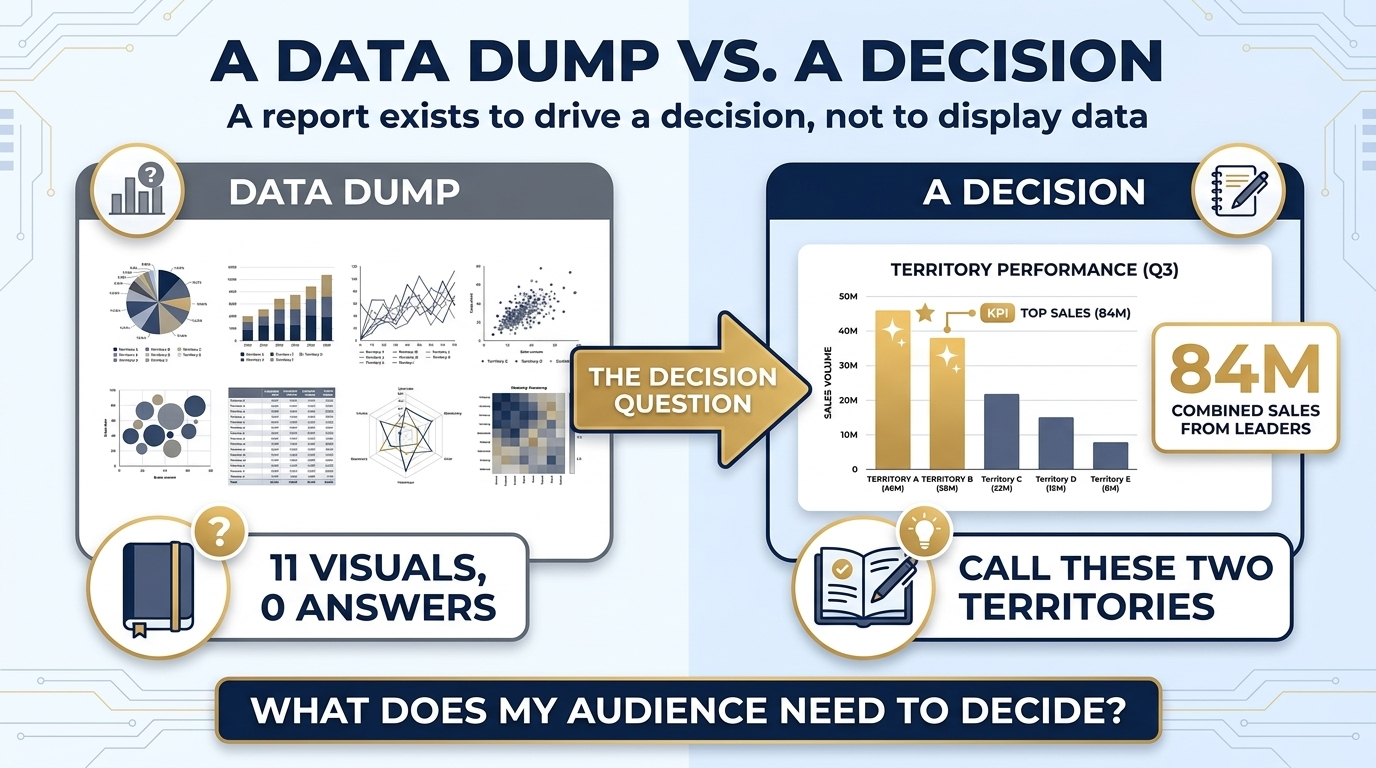
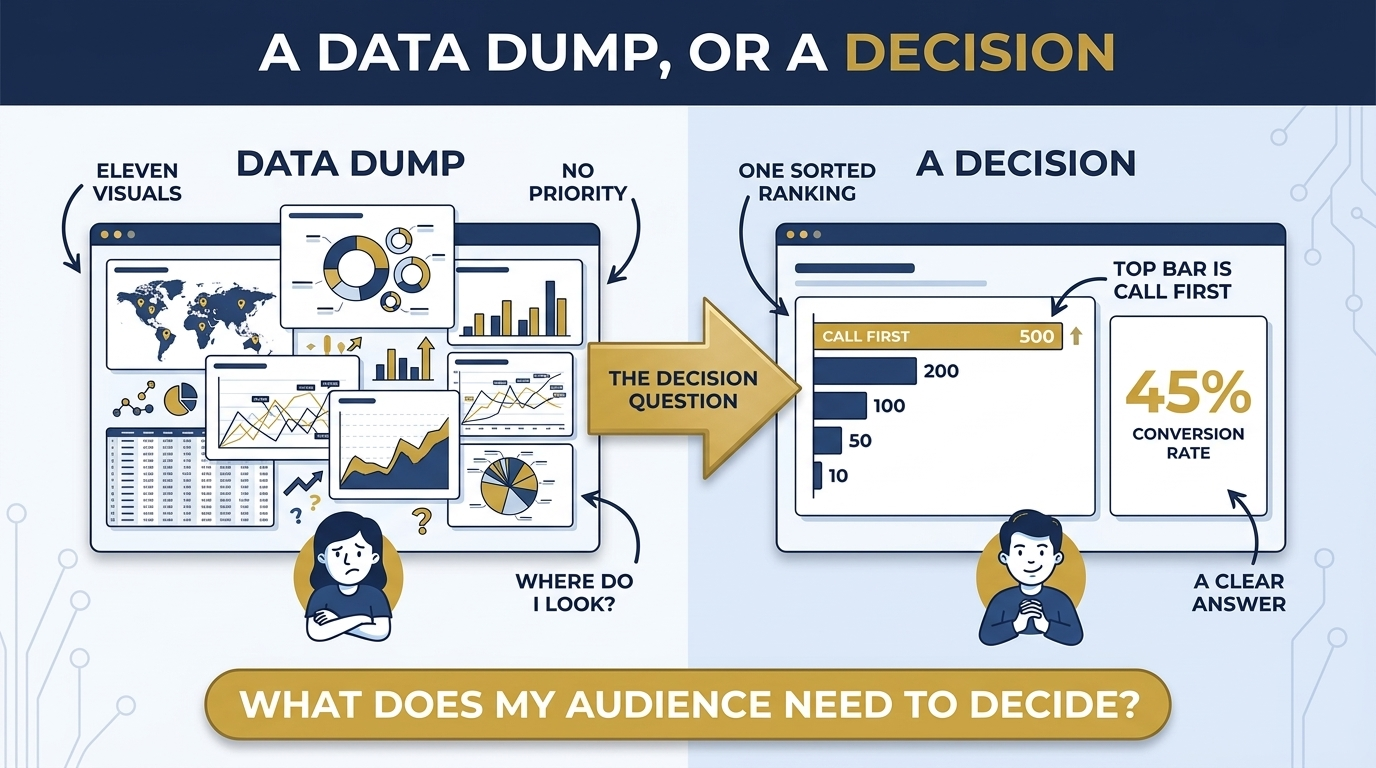
Restyle Chapter 1-6 images as ai4educators-style master infographics
Rebuild the chapter openers and Chapter 1's inner figures in the dense,
richly illustrated master-infographic style modeled on ai4educators.net:
images now depict each chapter's system with real objects, mini-diagrams,
and connecting arrows rather than labelling topics in sparse shapes.

- Ch1-6 openers regenerated, each with a distinct composition (layered
  stack, categorized gallery, before/after, hub-and-spoke, card grid,
  hub-with-side-panels) so no two repeat.
- Chapter 1 inner figures (1.2-1.4) upgraded to the same rich style.
- Chapter 1 and 2 photo-real openers (crossroads, visual-toolkit-wall)
  replaced; new openers use the at-a-glance slug.
- Figure HTML-comment prompt blocks and alt text updated to match.
- All chapters build clean with no MyST warnings.

diff --git a/chapters/ch01-from-model-to-message.md b/chapters/ch01-from-model-to-message.md
@@ -4,25 +4,24 @@ subtitle: "Foundations of Power BI Visualization"
 ---
 
 <!--
-NANO BANANA PRO IMAGE PROMPT
-File: images/ch01/fig-1-1-crossroads.png
-Title: The Crossroads
-
-Subject: A young Latina professional in her mid-20s, business-casual attire, standing at a fork in an indoor walkway.
-Action: She is mid-step, turning her head to look from one path to the other; one path glows softly while the other is dim.
-Environment: Inside a modern, glass-walled corporate workspace at dusk; Miami skyline visible through the windows (palm tree silhouettes, ocean glow on the horizon); subtle holographic data elements floating along the lit path — a glowing bar chart, a KPI card, a faint map.
-Lighting: Cool blue ambient with warm gold accents on the lit path; cinematic, depth of field with the protagonist in sharp focus.
-Style: Photo-real with a subtle digital-painting finish; clean, premium, editorial; consistent with the book's broader visual identity.
-Constraints: No text, no readable chart labels, no logos, no other people; 16:9 aspect ratio.
+NANO BANANA PRO — CHAPTER 1 OPENING INFOGRAPHIC
+File: images/ch01/fig-1-1-ch1-at-a-glance.png
+Title: From Model to Message (Chapter 1 Overview)
+Concept: A master infographic of the chapter — the foundations that turn a finished data model into a report that drives a decision.
+Archetype: Master infographic — a layered foundation stack of five stacked bands, richly illustrated in the ai4educators.net chapter-overview style, retinted to the book's navy/gold brand.
+Reference (composition/density): ../../.ref-ai4ed/ai4ed-ch02-opener.png
+Reference (palette/finish): images/_style-reference/fig-3-2-two-reactions.png
+Labels: kicker CHAPTER 1 OVERVIEW; title FROM MODEL TO MESSAGE; bands THE DATA MODEL, VISUAL ENCODING, PRE-ATTENTIVE PROCESSING, CHOOSE THE RIGHT VISUAL, THE REPORT; banner "FROM A MODEL TO A MESSAGE".
+Palette: navy #1B2A47, gold #C9A23A, white / pale-blue background.
 -->
 
-:::{figure} ../images/ch01/fig-1-1-crossroads.png
+:::{figure} ../images/ch01/fig-1-1-ch1-at-a-glance.png
 :label: fig-1-1
-:alt: Camila at a crossroads in a glass-walled corporate hallway at dusk, holographic data visuals lining a lit path; Miami skyline beyond the windows.
+:alt: A master infographic titled "From Model to Message." A layered foundation stack rises from "the data model" through "visual encoding," "pre-attentive processing," and "choose the right visual" to "the report — an argument for a decision." A banner reads "from a model to a message."
 :width: 100%
 :align: center
 
-**Figure 1.1.** *The Crossroads.* Camila chooses between two paths — one lit by the data she has just learned to wield.
+**Figure 1.1.** *From Model to Message — Chapter 1 Overview.* The foundations, stacked: a finished data model becomes a report that drives a decision.
 :::
 
 **Chapter 1 of 8** | **Part 1 of 4: Foundations of Visualization**
@@ -116,17 +115,18 @@ Let us go back to Camila's Monday morning meeting.
 <!--
 NANO BANANA PRO — CHAPTER 1 FIGURE 2 (concept infographic)
 File: images/ch01/fig-1-2-data-dump-vs-decision.png
-Title: A Data Dump vs. a Decision
+Title: A Data Dump, or a Decision
 Concept: A report exists to drive a decision, not to display data — the Decision Question.
-Archetype: Before/after — two panels, central "THE DECISION QUESTION" arrow.
-Reference: images/_style-reference/fig-3-2-two-reactions.png
-Labels: panel headers "DATA DUMP" / "A DECISION"; callouts "11 VISUALS, 0 ANSWERS" / "CALL THESE TWO TERRITORIES"; footer "WHAT DOES MY AUDIENCE NEED TO DECIDE?".
+Archetype: Rich before/after — two illustrated report panels with annotations and reaction faces, central "THE DECISION QUESTION" arrow; ai4educators master-infographic style, navy/gold.
+Reference (composition): ../../.ref-ai4ed/ai4ed-ch01-fig-tuesdays.png
+Reference (palette): images/ch01/fig-1-1-ch1-at-a-glance.png
+Labels: panel headers DATA DUMP / A DECISION; annotations ELEVEN VISUALS, NO PRIORITY, WHERE DO I LOOK / ONE SORTED RANKING, TOP BAR IS CALL FIRST, A CLEAR ANSWER; arrow THE DECISION QUESTION; banner "WHAT DOES MY AUDIENCE NEED TO DECIDE?".
 Palette: navy #1B2A47, gold #C9A23A, white / pale-blue background.
 -->
 
 :::{figure} ../images/ch01/fig-1-2-data-dump-vs-decision.png
 :label: fig-1-2
-:alt: A before-and-after infographic. On the left, a cluttered report crammed with eleven small mismatched charts, labeled "11 visuals, 0 answers." On the right, a focused report with one sorted bar chart and a number card, labeled "call these two territories." A central arrow reads "the Decision Question."
+:alt: A rich before-and-after infographic. On the left, "data dump" — a cluttered report crammed with mismatched charts, annotated "eleven visuals," "no priority," "where do I look?" On the right, "a decision" — a clean report with one sorted bar chart and a number card, annotated "one sorted ranking," "a clear answer." A central arrow reads "the Decision Question"; a banner reads "what does my audience need to decide?"
 :width: 100%
 :align: center
 
@@ -222,15 +222,16 @@ NANO BANANA PRO — CHAPTER 1 FIGURE 3 (concept infographic)
 File: images/ch01/fig-1-3-visual-encoding.png
 Title: Visual Encoding 101
 Concept: The four visual encoding channels ranked by how accurately the eye reads quantity.
-Archetype: Row diagram — four channel rows, each with a demonstration and a verdict pill.
-Reference: this figure is itself a locked style anchor in images/_style-reference/.
-Labels: rows POSITION / LENGTH / AREA / COLOR; pills "MOST ACCURATE" / "HIGHLY ACCURATE" / "OFTEN MISJUDGED" / "CATEGORIES, NOT QUANTITY".
+Archetype: Rich ranked accuracy scale — four channel rows from most to least accurate, each with a drawn demonstration and a verdict pill, plus a side ACCURACY arrow; ai4educators master-infographic style, navy/gold.
+Reference (composition): ../../.ref-ai4ed/ai4ed-ch01-fig-bloom.png
+Reference (palette): images/ch01/fig-1-1-ch1-at-a-glance.png
+Labels: rows POSITION / LENGTH / AREA / COLOR; verdict pills MOST ACCURATE / HIGHLY ACCURATE / OFTEN MISJUDGED / FOR CATEGORIES, NOT QUANTITY; side arrow ACCURACY; banner "POSITION BEATS LENGTH BEATS AREA BEATS COLOR".
 Palette: navy #1B2A47, gold #C9A23A, white / pale-blue background.
 -->
 
 :::{figure} ../images/ch01/fig-1-3-visual-encoding.png
 :label: fig-1-3
-:alt: A four-row infographic titled "Visual Encoding 101." Each row demonstrates one channel — position, length, area, color — with a verdict: position is most accurate, length highly accurate, area often misjudged, and color is for categories not quantity.
+:alt: A ranked accuracy-scale infographic titled "Visual Encoding 101." Four channel rows run from most to least accurate — position, length, area, color — each with a drawn demonstration and a verdict: position most accurate, length highly accurate, area often misjudged, color for categories not quantity. A banner reads "position beats length beats area beats color."
 :width: 100%
 :align: center
 
@@ -340,15 +341,16 @@ NANO BANANA PRO — CHAPTER 1 FIGURE 4 (concept infographic)
 File: images/ch01/fig-1-4-match-question-visual.png
 Title: Match the Question to the Visual
 Concept: The audience's question decides the chart type — five question types mapped to their best visual.
-Archetype: Card row — five cards, each a question type with its recommended visual.
-Reference: images/_style-reference/fig-1-3-visual-encoding.png
-Labels: cards COMPARE CATEGORIES (sorted bar), CHANGE OVER TIME (line chart), PARTS OF A WHOLE (stacked bar), ONE KEY NUMBER (card), A RELATIONSHIP (scatter plot).
+Archetype: Rich card row — five tall illustrated cards, each a question with a drawn mini-chart of its answer; ai4educators master-infographic style, navy/gold.
+Reference (composition): ../../.ref-ai4ed/ai4ed-ch01-fig-tuesdays.png
+Reference (palette): images/ch01/fig-1-1-ch1-at-a-glance.png
+Labels: cards COMPARE CATEGORIES → SORTED BAR, CHANGE OVER TIME → LINE CHART, PARTS OF A WHOLE → STACKED BAR, ONE KEY NUMBER → KPI CARD, A RELATIONSHIP → SCATTER PLOT; banner "QUESTION FIRST, VISUAL SECOND".
 Palette: navy #1B2A47, gold #C9A23A, white / pale-blue background.
 -->
 
 :::{figure} ../images/ch01/fig-1-4-match-question-visual.png
 :label: fig-1-4
-:alt: A five-card infographic titled "Match the Question to the Visual." Each card pairs a question type with its best chart: compare categories with a sorted bar, change over time with a line chart, parts of a whole with a stacked bar, one key number with a card, and a relationship with a scatter plot.
+:alt: A five-card infographic titled "Match the Question to the Visual." Each tall card pairs a question with a drawn mini-chart of its best answer: compare categories with a sorted bar, change over time with a line chart, parts of a whole with a stacked bar, one key number with a KPI card, and a relationship with a scatter plot.
 :width: 100%
 :align: center
 

diff --git a/chapters/ch02-core-visual-toolkit.md b/chapters/ch02-core-visual-toolkit.md
@@ -3,23 +3,24 @@ title: "Chapter 2 — The Core Visual Toolkit"
 ---
 
 <!--
-NANO BANANA PRO — CHAPTER 2 OPENING IMAGE
-File: images/ch02/fig-2-1-visual-toolkit-wall.png
-Subject: A bicycle mechanic's pegboard tool wall inside a modern AdventureWorks bike shop, with a tidy assembly bench in the foreground.
-Action: Among the mounted wrenches and tire levers hang translucent, softly glowing holographic data visuals — a bar chart, a line chart, a single-number data card; one holographic visual is lifted slightly off its hook, as if being chosen for a job. On the bench, a laptop shows a partially built report glowing on screen.
-Environment: A clean, modern bike shop interior at dusk; Miami skyline and palm-tree silhouettes visible through a large window, ocean glow on the horizon — echoing the setting of the Chapter 1 opening image.
-Lighting: Cool blue ambient with warm gold accents; cinematic, shallow depth of field with the tool wall in sharp focus; a cool turquoise glow radiating from the holographic visuals.
-Style: Photo-real with a subtle digital-painting finish; clean, premium, editorial; consistent with the Chapter 1 opening image and the book's broader visual identity.
-Constraints: No text, no readable chart labels, no logos, no people; 16:9 aspect ratio.
+NANO BANANA PRO — CHAPTER 2 OPENING INFOGRAPHIC
+File: images/ch02/fig-2-1-ch2-at-a-glance.png
+Title: The Core Visual Toolkit (Chapter 2 Overview)
+Concept: A master infographic of the chapter — every chart Power BI gives you, grouped by the job it does.
+Archetype: Master infographic — a categorized gallery of six grouped chart-type panels, richly illustrated in the ai4educators.net chapter-overview style, retinted to the book's navy/gold brand.
+Reference (composition/density): ../../.ref-ai4ed/ai4ed-ch01-opener.png
+Reference (palette/finish): images/_style-reference/fig-3-2-two-reactions.png
+Labels: kicker CHAPTER 2 OVERVIEW; title THE CORE VISUAL TOOLKIT; groups COMPARISON, TREND OVER TIME, PART-TO-WHOLE, RELATIONSHIP AND DISTRIBUTION, TABLES AND MATRICES, MAPS AND KPI CARDS; banner "PICK THE RIGHT TOOL FOR THE JOB".
+Palette: navy #1B2A47, gold #C9A23A, white / pale-blue background.
 -->
 
-:::{figure} ../images/ch02/fig-2-1-visual-toolkit-wall.png
+:::{figure} ../images/ch02/fig-2-1-ch2-at-a-glance.png
 :label: fig-2-1
-:alt: A bike-shop pegboard tool wall where the hanging tools are translucent holographic data visuals — bar chart, line chart, KPI card — with a laptop showing a partial report on the bench.
+:alt: A master infographic titled "The Core Visual Toolkit." A categorized gallery groups Power BI's charts by purpose: comparison, trend over time, part-to-whole, relationship and distribution, tables and matrices, and maps and KPI cards. A banner reads "pick the right tool for the job."
 :width: 100%
 :align: center
 
-**Figure 2.1.** *The Visual Toolkit Wall.* Like a mechanic's pegboard, the Visualizations pane is a wall of tools. The job is choosing the right one.
+**Figure 2.1.** *The Core Visual Toolkit — Chapter 2 Overview.* Every chart Power BI gives you, grouped by the job it does.
 :::
 
 **CAP2743C: Power BI — Data Visualization and Analysis**

diff --git a/chapters/ch06-ai-patterns-anomalies-copilot.md b/chapters/ch06-ai-patterns-anomalies-copilot.md
@@ -6,21 +6,22 @@ subtitle: "Patterns, Anomalies, and Copilot"
 <!--
 NANO BANANA PRO — CHAPTER 6 OPENING INFOGRAPHIC
 File: images/ch06/fig-6-1-ch6-at-a-glance.png
-Title: AI-Powered Analysis at a Glance
-Concept: A roadmap of the chapter — the six AI features that let a report notice what the analyst did not think to ask.
-Archetype: Honeycomb — six hexagons packed in two offset rows, no central node (deliberately NOT hub-and-spoke or roadmap, to differ from the Ch3 / Ch5 openers).
-Reference: images/_style-reference/fig-3-2-two-reactions.png
-Labels: hexagons GROUPING AND CLUSTERING, OUTLIERS AND ANOMALIES, KEY INFLUENCERS, DECOMPOSITION TREE, THE Q AND A VISUAL, COPILOT; banner "FROM ANALYZING TO NOTICING".
+Title: AI-Powered Analysis (Chapter 6 Overview)
+Concept: A master infographic of the chapter — the AI features that let a report notice what the analyst did not think to ask.
+Archetype: Master infographic — a central analysis diagram flanked by two side-panels, richly illustrated in the ai4educators.net chapter-overview style, retinted to the book's navy/gold brand.
+Reference (composition/density): ../../.ref-ai4ed/ai4ed-ch06-opener.png
+Reference (palette/finish): images/_style-reference/fig-3-2-two-reactions.png
+Labels: kicker CHAPTER 6 OVERVIEW; title AI-POWERED ANALYSIS; centre AI ANALYSIS with KEY INFLUENCERS, DECOMPOSITION TREE, THE Q AND A VISUAL; left panel FIND THE UNUSUAL (grouping and clustering, outliers, anomalies); right panel COPILOT (create report pages, summarize the model); banner "FROM ANALYZING TO NOTICING".
 Palette: navy #1B2A47, gold #C9A23A, white / pale-blue background.
 -->
 
 :::{figure} ../images/ch06/fig-6-1-ch6-at-a-glance.png
 :label: fig-6-1
-:alt: A honeycomb infographic titled "AI-Powered Analysis at a Glance." Six hexagons hold the chapter's AI features: grouping and clustering, outliers and anomalies, key influencers, decomposition tree, the Q&A visual, and Copilot. A banner reads "from analyzing to noticing."
+:alt: A master infographic titled "AI-Powered Analysis." A central "AI analysis" diagram shows key influencers, a decomposition tree, and the Q&A visual; a left panel "find the unusual" covers grouping and clustering, outliers, and anomalies; a right panel covers Copilot. A banner reads "from analyzing to noticing."
 :width: 100%
 :align: center
 
-**Figure 6.1.** *AI-Powered Analysis at a Glance.* The six AI features that let a report notice what the analyst did not think to ask.
+**Figure 6.1.** *AI-Powered Analysis — Chapter 6 Overview.* The AI features that let a report notice what the analyst did not think to ask.
 :::
 
 **Chapter 6 of 8** | **Part 3 of 4: Analytics and AI**

diff --git a/chapters/ch05-analytics-statistics-visual-calculations.md b/chapters/ch05-analytics-statistics-visual-calculations.md
@@ -6,21 +6,22 @@ subtitle: "Analytics, Statistics, and Visual Calculations"
 <!--
 NANO BANANA PRO — CHAPTER 5 OPENING INFOGRAPHIC
 File: images/ch05/fig-5-1-ch5-at-a-glance.png
-Title: Analytics and Insight at a Glance
-Concept: A roadmap of the chapter — the six features that move a report from showing data to finding the story inside it.
-Archetype: Roadmap — a winding left-to-right path with six numbered milestone signposts (deliberately NOT hub-and-spoke, to differ from the Ch3/Ch4 openers).
-Reference: images/_style-reference/fig-3-2-two-reactions.png
-Labels: milestones 1 ANALYZE FEATURE, 2 TOP N ANALYSIS, 3 ANALYTICS PANE, 4 QUICK INSIGHTS, 5 SMART NARRATIVE AND COPILOT, 6 VISUAL CALCULATIONS; banner "FROM SHOWING TO FINDING".
+Title: Insights That Tell a Story (Chapter 5 Overview)
+Concept: A master infographic of the chapter — the six features that move a report from showing data to finding the story inside it.
+Archetype: Master infographic — a six-card grid around a central hub, richly illustrated in the ai4educators.net chapter-overview style, retinted to the book's navy/gold brand.
+Reference (composition/density): ../../.ref-ai4ed/ai4ed-ch01-opener.png
+Reference (palette/finish): images/_style-reference/fig-3-2-two-reactions.png
+Labels: kicker CHAPTER 5 OVERVIEW; title INSIGHTS THAT TELL A STORY; centre hub FINDING THE INSIGHT; cards ANALYZE FEATURE, TOP N ANALYSIS, ANALYTICS PANE, QUICK INSIGHTS, SMART NARRATIVE AND COPILOT, VISUAL CALCULATIONS; banner "FROM SHOWING TO FINDING".
 Palette: navy #1B2A47, gold #C9A23A, white / pale-blue background.
 -->
 
 :::{figure} ../images/ch05/fig-5-1-ch5-at-a-glance.png
 :label: fig-5-1
-:alt: A winding-roadmap infographic titled "Analytics and Insight at a Glance." Six numbered milestone signposts run along the path: analyze feature, top N analysis, analytics pane, quick insights, smart narrative and Copilot, and visual calculations. A banner reads "from showing to finding."
+:alt: A master infographic titled "Insights That Tell a Story." Six illustrated cards surround a central hub, "finding the insight": analyze feature, top N analysis, analytics pane, quick insights, smart narrative and Copilot, and visual calculations. A banner reads "from showing to finding."
 :width: 100%
 :align: center
 
-**Figure 5.1.** *Analytics and Insight at a Glance.* The six features that move a report from showing data to finding the story inside it.
+**Figure 5.1.** *Insights That Tell a Story — Chapter 5 Overview.* The six features that move a report from showing data to finding the story inside it.
 :::
 
 **Chapter 5 of 8** | **Part 3 of 4: Analytics and AI**

diff --git a/chapters/ch04-interactive-storytelling.md b/chapters/ch04-interactive-storytelling.md
@@ -6,21 +6,22 @@ subtitle: "Filters, Navigation, and Drill-Through"
 <!--
 NANO BANANA PRO — CHAPTER 4 OPENING INFOGRAPHIC
 File: images/ch04/fig-4-1-ch4-at-a-glance.png
-Title: Interactive Storytelling at a Glance
-Concept: A roadmap of the chapter — the six controls that turn a static report into a conversation.
-Archetype: Control panel — one console with six embedded control modules in two rows of three (deliberately NOT hub-and-spoke, to differ from the Ch3 / Ch5 openers).
-Reference: images/_style-reference/fig-3-2-two-reactions.png
-Labels: modules FILTER HIERARCHY, SLICERS, EDITING INTERACTIONS, DRILL-THROUGH, CUSTOM TOOLTIPS, BOOKMARKS AND NAVIGATION; banner "FROM STATIC TO CONVERSATION".
+Title: Interactive Storytelling (Chapter 4 Overview)
+Concept: A master infographic of the chapter — the six controls that turn a static report into a conversation.
+Archetype: Master infographic — a hub-and-spoke with a central report and six richly illustrated control spokes, in the ai4educators.net chapter-overview style, retinted to the book's navy/gold brand.
+Reference (composition/density): ../../.ref-ai4ed/ai4ed-ch06-opener.png
+Reference (palette/finish): images/_style-reference/fig-3-2-two-reactions.png
+Labels: kicker CHAPTER 4 OVERVIEW; title INTERACTIVE STORYTELLING; spokes FILTER HIERARCHY, SLICERS, EDITING INTERACTIONS, DRILL-THROUGH, CUSTOM TOOLTIPS, BOOKMARKS AND NAVIGATION; banner "FROM STATIC TO CONVERSATION".
 Palette: navy #1B2A47, gold #C9A23A, white / pale-blue background.
 -->
 
 :::{figure} ../images/ch04/fig-4-1-ch4-at-a-glance.png
 :label: fig-4-1
-:alt: A control-panel infographic titled "Interactive Storytelling at a Glance." One console holds six labelled control modules: filter hierarchy, slicers, editing interactions, drill-through, custom tooltips, and bookmarks and navigation. A banner reads "from static to conversation."
+:alt: A master infographic titled "Interactive Storytelling." A central report screen connects by six spokes to illustrated controls: filter hierarchy, slicers, editing interactions, drill-through, custom tooltips, and bookmarks and navigation. A banner reads "from static to conversation."
 :width: 100%
 :align: center
 
-**Figure 4.1.** *Interactive Storytelling at a Glance.* The six controls that turn a static report into a conversation.
+**Figure 4.1.** *Interactive Storytelling — Chapter 4 Overview.* The six controls that turn a static report into a conversation.
 :::
 
 **Chapter 4 of 8** | **Part 2 of 4: Design and Interaction**

diff --git a/chapters/ch03-formatting-conditional-custom-visuals.md b/chapters/ch03-formatting-conditional-custom-visuals.md
@@ -6,21 +6,22 @@ subtitle: "Design and Interaction, Part 1"
 <!--
 NANO BANANA PRO — CHAPTER 3 OPENING INFOGRAPHIC
 File: images/ch03/fig-3-1-ch3-at-a-glance.png
-Title: Chapter 3 at a Glance
-Concept: A roadmap of the chapter — the six levers that move a report from functional to convincing.
-Archetype: Hub-and-spoke — central "A CONVINCING REPORT" node, six labelled spokes.
-Reference: images/_style-reference/fig-3-2-two-reactions.png
-Labels: spokes THEMES, CONDITIONAL FORMATTING, SMALL MULTIPLES, CUSTOM VISUALS, R AND PYTHON VISUALS, ACCESSIBILITY; banner "FUNCTIONAL TO CONVINCING".
+Title: From Functional to Convincing (Chapter 3 Overview)
+Concept: A master infographic of the chapter — the six levers that move a report from functional to convincing.
+Archetype: Master infographic — a before/after transformation with a central toolset of six levers, richly illustrated in the ai4educators.net chapter-overview style, retinted to the book's navy/gold brand.
+Reference (composition/density): ../../.ref-ai4ed/ai4ed-ch02-opener.png
+Reference (palette/finish): images/_style-reference/fig-3-2-two-reactions.png
+Labels: kicker CHAPTER 3 OVERVIEW; title FROM FUNCTIONAL TO CONVINCING; before/after panels FUNCTIONAL, CONVINCING; tools THEMES, CONDITIONAL FORMATTING, SMALL MULTIPLES, CUSTOM VISUALS, R AND PYTHON, ACCESSIBILITY; banner "SAME DATA, A STRONGER ARGUMENT".
 Palette: navy #1B2A47, gold #C9A23A, white / pale-blue background.
 -->
 
 :::{figure} ../images/ch03/fig-3-1-ch3-at-a-glance.png
 :label: fig-3-1
-:alt: A hub-and-spoke infographic titled "Chapter 3 at a Glance." A central node, "a convincing report," connects to six spokes: themes, conditional formatting, small multiples, custom visuals, R and Python visuals, and accessibility. A banner reads "functional to convincing."
+:alt: A master infographic titled "From Functional to Convincing." A plain "functional" report on the left transforms, through six labelled tools — themes, conditional formatting, small multiples, custom visuals, R and Python, accessibility — into a polished "convincing" report on the right. A banner reads "same data, a stronger argument."
 :width: 100%
 :align: center
 
-**Figure 3.1.** *Chapter 3 at a Glance.* The six levers that move a report from functional to convincing.
+**Figure 3.1.** *From Functional to Convincing — Chapter 3 Overview.* The six levers that move a report from functional to convincing.
 :::
 
 **Chapter 3 of 8** | **Part 2 of 4: Design and Interaction**
